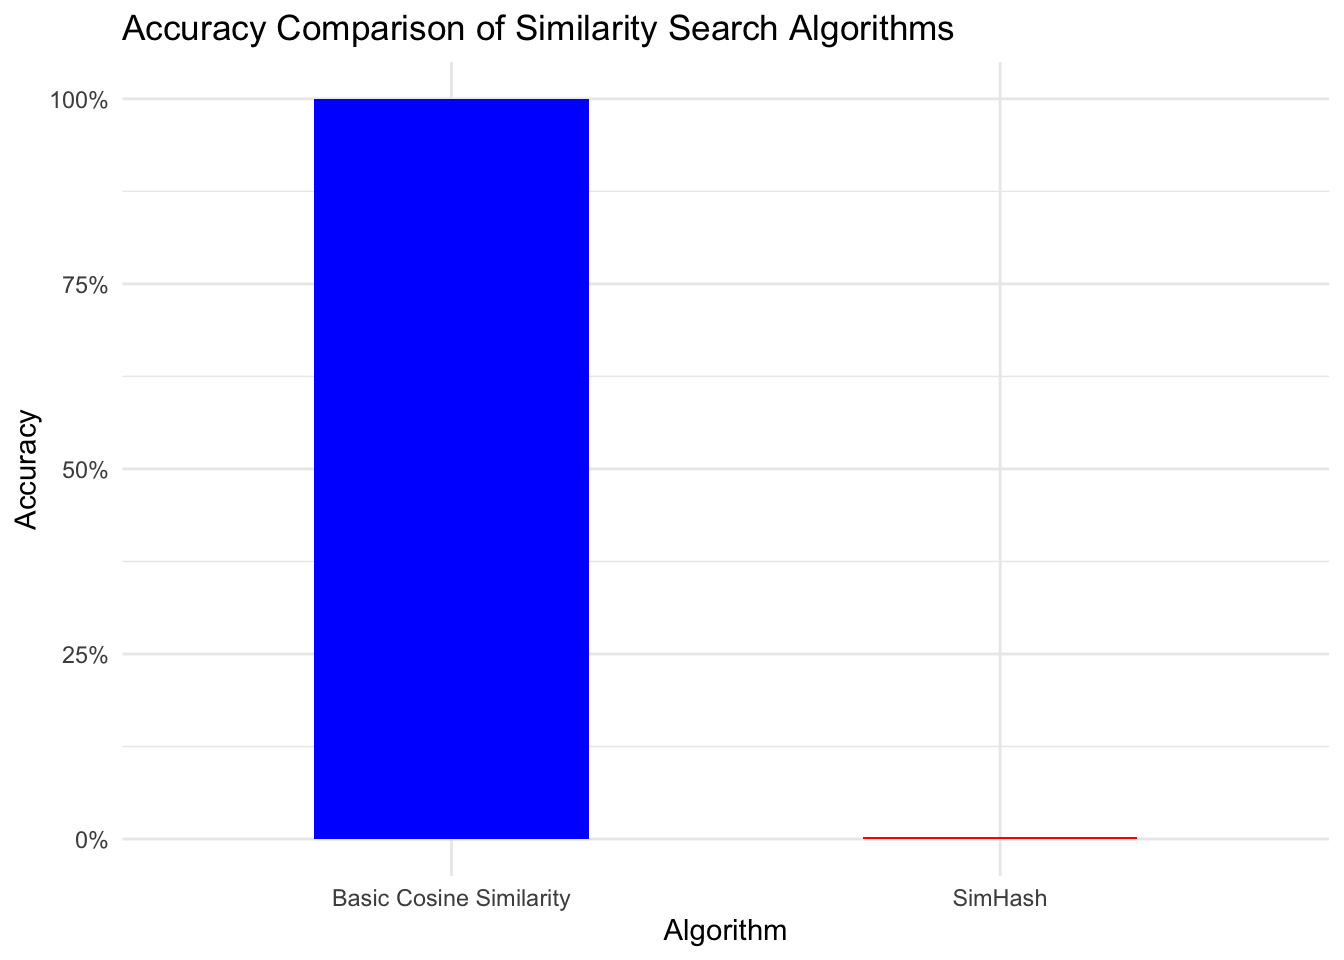
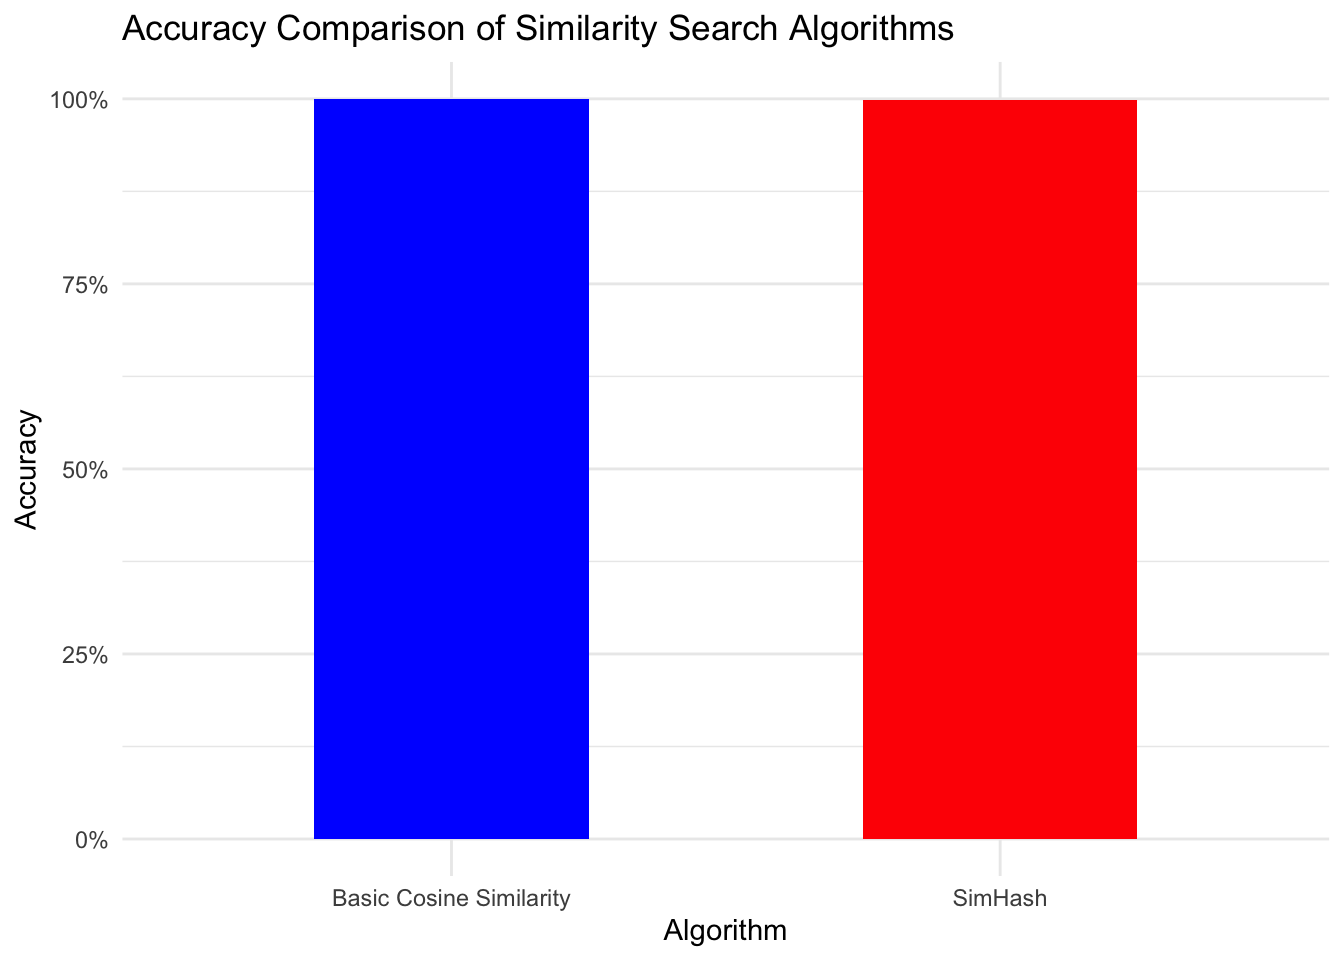
Updating report

Changed region(s): [[0.625, 0.0938, 0.8438, 0.875]]

diff --git a/DRSP-2024-Amiya/report.html b/DRSP-2024-Amiya/report.html
@@ -62,8 +62,8 @@ ul.task-list li input[type="checkbox"] {
 </header>
 
 
-<section id="efficiency-with-simhash-similarity-search-algorithm-is-not-worth-the-loss-in-accuracy" class="level1">
-<h1>Efficiency with SimHash similarity search algorithm is not worth the loss in accuracy</h1>
+<section id="simhash-boosting-efficiency-in-similarity-search-with-minimal-accuracy-loss" class="level1">
+<h1>SimHash: Boosting Efficiency in Similarity Search with Minimal Accuracy Loss</h1>
 <p>Amiya Harish</p>
 <section id="abstract" class="level2">
 <h2 class="anchored" data-anchor-id="abstract">Abstract</h2>
@@ -72,7 +72,7 @@ ul.task-list li input[type="checkbox"] {
 </section>
 <section id="background" class="level2">
 <h2 class="anchored" data-anchor-id="background">Background</h2>
-<p>The dataset I use consists of articles from the New York Times and all the words that each article contains. My research question aims to decide whether the loss in accuracy of a similarity search algorithm using SimHash is worth the efficiency. I chose this research question because SimHash is widely recognized as the fastest similarity search algorithm that uses cosine similarity. I wanted to compare algorithms using cosine similarity and not Jaccard similarity because while cleaning my data I found that many articles in the dataset had near duplicate articles and cosine similarity algorithms automatically combine near duplicate articles. This research question is important because as technology improves, we need to work to find the most efficient methods of computing everything- however, we must ensure that this does not come at the cost of too much of loss in accuracy. Before beginning this project, I hypothesized that the loss of accuracy would be worth the efficiency when using SimHash.</p>
+<p>The dataset I use consists of articles from the New York Times and all the words that each article contains. My research question aims to decide whether the loss in accuracy of a similarity search algorithm using SimHash is worth the efficiency. I chose this research question because SimHash is widely recognized as the fastest similarity search algorithm that uses cosine similarity. I wanted to compare algorithms using cosine similarity and not Jaccard similarity because while cleaning my data I found that many articles in the dataset had near duplicate articles and cosine similarity algorithms automatically combine near duplicate articles. This research question is important because as technology improves, we need to work to find the most efficient methods of computing everything- however, we must ensure that this does not come at the cost of too much of loss in accuracy. Before beginning this project, I hypothesized that the loss of accuracy would be worth the efficiency when using SimHash based on my previous research.</p>
 </section>
 <section id="figures" class="level2">
 <h2 class="anchored" data-anchor-id="figures">Figures</h2>
